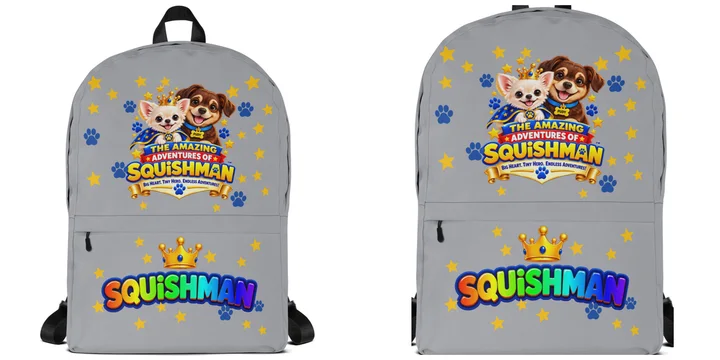
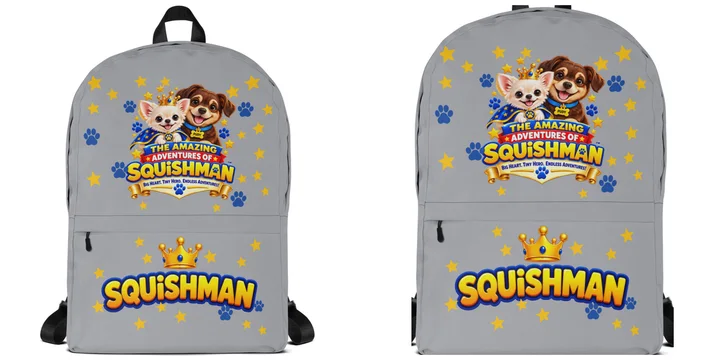
Backpacks: gold wordmark file ids, photos and copy
Claude-Session: https://claude.ai/code/session_01FVMXiv2oXUguMNtyLAxW5e

Changed region(s): [[0.6111, 0.7333, 0.8861, 0.8556], [0.1222, 0.7639, 0.3667, 0.8556]]

diff --git a/src/fulfillment/merch.ts b/src/fulfillment/merch.ts
@@ -1096,17 +1096,17 @@ MERCH.push({
 });
 
 // Backpacks (Printful product 279, all-over print, 16x12x4 in): The Amazing
-// Adventures of Squish Man banner on the front, the gold crown and a rainbow
+// Adventures of Squish Man banner on the front, the gold crown and a gold
 // SQUISHMAN on the front pocket, gold stars and paw prints around both, and
 // solid top and bottom strips. Every color has its own files
 // (public/assets/merch/print/backpacks/).
 type BackpackPart = "front" | "pocket" | "top" | "bottom";
 const BACKPACK_FILES: Record<string, Record<BackpackPart, number>> = {
-	"White": { front: 1092458943, pocket: 1092452285, top: 1092452289, bottom: 1092452297 },
-	"Pink": { front: 1092458944, pocket: 1092452309, top: 1092452314, bottom: 1092452318 },
-	"Royal Blue": { front: 1092458945, pocket: 1092452327, top: 1092452335, bottom: 1092452344 },
-	"Grey": { front: 1092463321, pocket: 1092463328, top: 1092463331, bottom: 1092463333 },
-	"Black": { front: 1092463339, pocket: 1092463344, top: 1092463349, bottom: 1092463351 },
+	"White": { front: 1092484970, pocket: 1092484974, top: 1092452289, bottom: 1092452297 },
+	"Pink": { front: 1092484976, pocket: 1092484977, top: 1092452314, bottom: 1092452318 },
+	"Royal Blue": { front: 1092484986, pocket: 1092484996, top: 1092452335, bottom: 1092452344 },
+	"Grey": { front: 1092485002, pocket: 1092485010, top: 1092463331, bottom: 1092463333 },
+	"Black": { front: 1092485013, pocket: 1092485016, top: 1092463349, bottom: 1092463351 },
 };
 const backpackPanel = (part: BackpackPart, width: number, height: number): MerchFile => ({
 	type: part,

diff --git a/public/merch.js b/public/merch.js
@@ -121,7 +121,7 @@ const SHOP={
  'Squish Squad Drawstring Bags':{key:'DRAWSTRING',img:'drawstring',name:'Squish Squad Drawstring Bag',facts:'15×17″ · 100% polyester · cotton straps',shown:'Same design on both sides',
   desc:'A light drawstring backpack for gym class, swim lessons and sleepovers, with The Amazing Adventures of Squish Man banner, the gold crown and a gold SQUISHMAN, and gold stars and paw prints, on both sides.'},
  'Squish Squad Backpacks':{key:'BACKPACK',img:'backpack',name:'Squish Squad Backpack',facts:'16×12×4″ · water-resistant · laptop pocket',shown:'Front of the backpack',
-  desc:'A roomy, water-resistant backpack with The Amazing Adventures of Squish Man banner on the front, a gold crown and rainbow SQUISHMAN on the front pocket, and gold stars and paw prints all around. Inside laptop sleeve. Great for school and adventures.'},
+  desc:'A roomy, water-resistant backpack with The Amazing Adventures of Squish Man banner on the front, a gold crown and gold SQUISHMAN on the front pocket, and gold stars and paw prints all around. Inside laptop sleeve. Great for school and adventures.'},
  'Squish Squad Mugs':{key:'MUG',img:'mug',name:'Squish Squad Mug',facts:'11 oz ceramic · dishwasher and microwave safe',
   desc:'A white glossy mug with Squish Man and Pudy on one side and the gold crown, SQUISHMAN wordmark and paw print on the other.'}
 };
